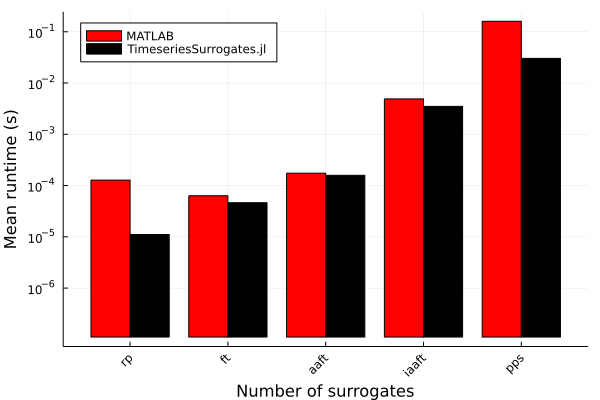
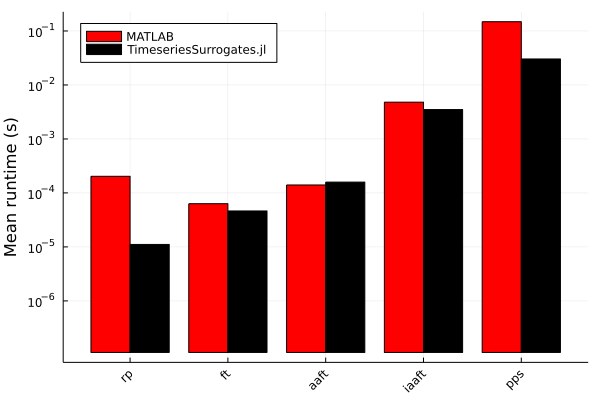
Update figure and legend

diff --git a/paper/paper.md b/paper/paper.md
@@ -107,7 +107,7 @@ The average time to generate surrogates in TimeseriesSurrogates.jl is in the bes
 Timings for commonly used surrogate methods that are common to both libraries are shown in Figure 1. 
 Because TimeseriesSurrogates.jl provides many more methods not implemented in other packages, a comprehensive comparison of runtimes is not possible, but due to our optimized surrogate generators, we expect good performance relative to future implementations in other languages.
 
-![Figure 1: Mean time (in seconds, based on 100 realizations) to generate a single surrogate using a pre-initialized generators in TimeseriesSurrogates.jl, using default parameters, with the maximum number of iterations for the IAAFT algorithm set to 100. MATLAB timings are generated using the code provided by Lancaster et al. (2018)[@Lancaster:2018], which does not provide standardized initialization tools to speed up surrogate generation. Note: timings for the pseudoperiodic surrogates in MATLAB include embedding lag and dimension finding, which has been included in the preprocessing step in the Julia version. Scripts to reproduce Julia and MATLAB timings are available in the GitHub repo for this paper.](figs/timings.png)
+![Figure 1: Mean time (in seconds, based on 100 realizations) to generate a single random permutation (rp), Fourier transform (ft), amplitude-adjusted Fourier transform (aaft), iterated aaft (iaaft) and pseudoperiodic (pps) surrogate using a pre-initialized generators with default parameters, and using a maximum of 100 iterations for the IAAFT algorithm. MATLAB timings are generated using the code provided by Lancaster et al. (2018)[@Lancaster:2018], which does not provide standardized initialization tools to speed up surrogate generation. Note: timings for the pseudoperiodic surrogates in MATLAB include embedding lag and dimension finding, which has been included in the preprocessing step in the Julia version. Scripts to reproduce Julia and MATLAB timings are available in the GitHub repo for this paper. ](figs/timings.png)
 
 # Acknowledgements
 
